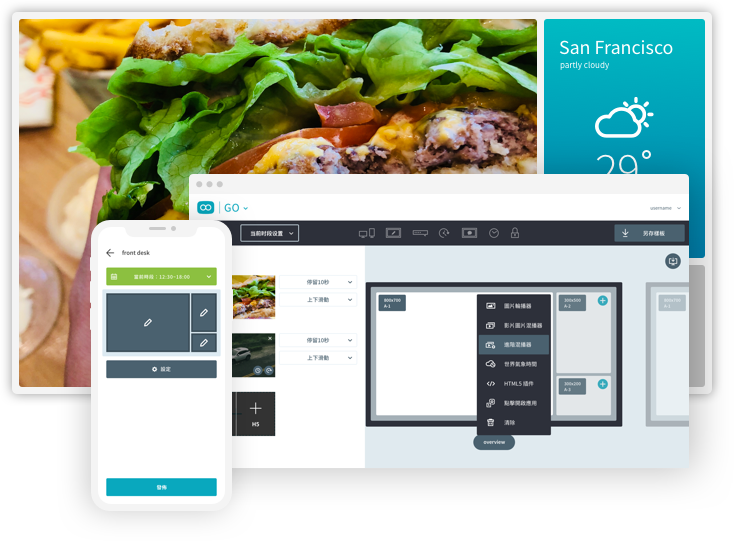
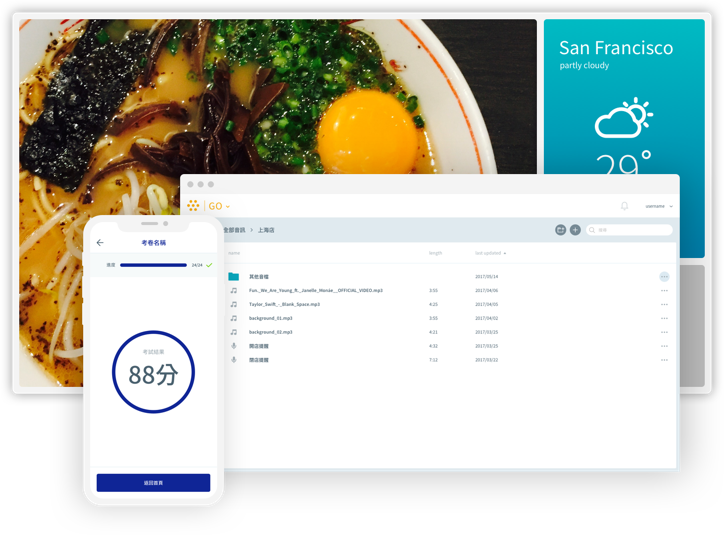
Change key vision image in index.html

diff --git a/css/app.css b/css/app.css
@@ -684,13 +684,21 @@ html, body {
 
 .section-kv-kabob {
   min-height: 100vh;
-  padding-top: 78px;
+  padding-top: 60px;
+  padding-bottom: 60px;
   background-image: linear-gradient(#21232A, #3B3E49);
   overflow: hidden; }
+  @media only screen and (min-width: 768px) {
+    .section-kv-kabob {
+      padding-top: 100px; } }
   .section-kv-kabob .content_width {
     margin: 0 auto;
     width: 105%;
     max-width: 1340px; }
+@inlcude untilpoint(md) {
+  .section-kv-kabob .kv_fonts-title {
+    font-size: 30px;
+    line-height: 42px; } }
   .section-kv-kabob .kv_desc {
     display: inline-block;
     margin: 20px 0;

diff --git a/cn/index.html b/cn/index.html
@@ -106,9 +106,9 @@
         </div>
         <div class="kv_images">
           <img class="kv_image" src="../images/kabob_image_kv.png"
-               srcset="../images/kabob_image_kv@0.5x.png 367w,
-                       ../images/kabob_image_kv.png 734w,
-                       ../images/kabob_image_kv@2x.png 1468w">
+               srcset="../images/kabob_image_kv@0.5x.png 362w,
+                       ../images/kabob_image_kv.png 724w,
+                       ../images/kabob_image_kv@2x.png 1450w">
         </div>
       </div>
     </section>

diff --git a/en/index.html b/en/index.html
@@ -106,9 +106,9 @@
         </div>
         <div class="kv_images">
           <img class="kv_image" src="../images/kabob_image_kv.png"
-               srcset="../images/kabob_image_kv@0.5x.png 367w,
-                       ../images/kabob_image_kv.png 734w,
-                       ../images/kabob_image_kv@2x.png 1468w">
+               srcset="../images/kabob_image_kv@0.5x.png 362w,
+                       ../images/kabob_image_kv.png 724w,
+                       ../images/kabob_image_kv@2x.png 1450w">
         </div>
       </div>
     </section>

diff --git a/index.html b/index.html
@@ -106,9 +106,9 @@
         </div>
         <div class="kv_images">
           <img class="kv_image" src="images/kabob_image_kv.png"
-               srcset="images/kabob_image_kv@0.5x.png 367w,
-                       images/kabob_image_kv.png 734w,
-                       images/kabob_image_kv@2x.png 1468w">
+               srcset="images/kabob_image_kv@0.5x.png 362w,
+                       images/kabob_image_kv.png 724w,
+                       images/kabob_image_kv@2x.png 1450w">
         </div>
       </div>
     </section>

diff --git a/css/app.sass b/css/app.sass
@@ -552,14 +552,22 @@ $kabob_section_px: 8.6%
 
 .section-kv-kabob
   min-height: 100vh
-  padding-top: 78px
+  padding-top: 60px
+  padding-bottom: 60px
   background-image: linear-gradient(#21232A, #3B3E49)
   overflow: hidden
+  @include breakpoint(md)
+    padding-top: 100px
 
   .content_width
     margin: 0 auto
     width: 105%
     max-width: 1340px
+
+  @inlcude untilpoint(md)
+    .kv_fonts-title
+      font-size: 30px
+      line-height: 42px
 
   .kv_desc
     display: inline-block
